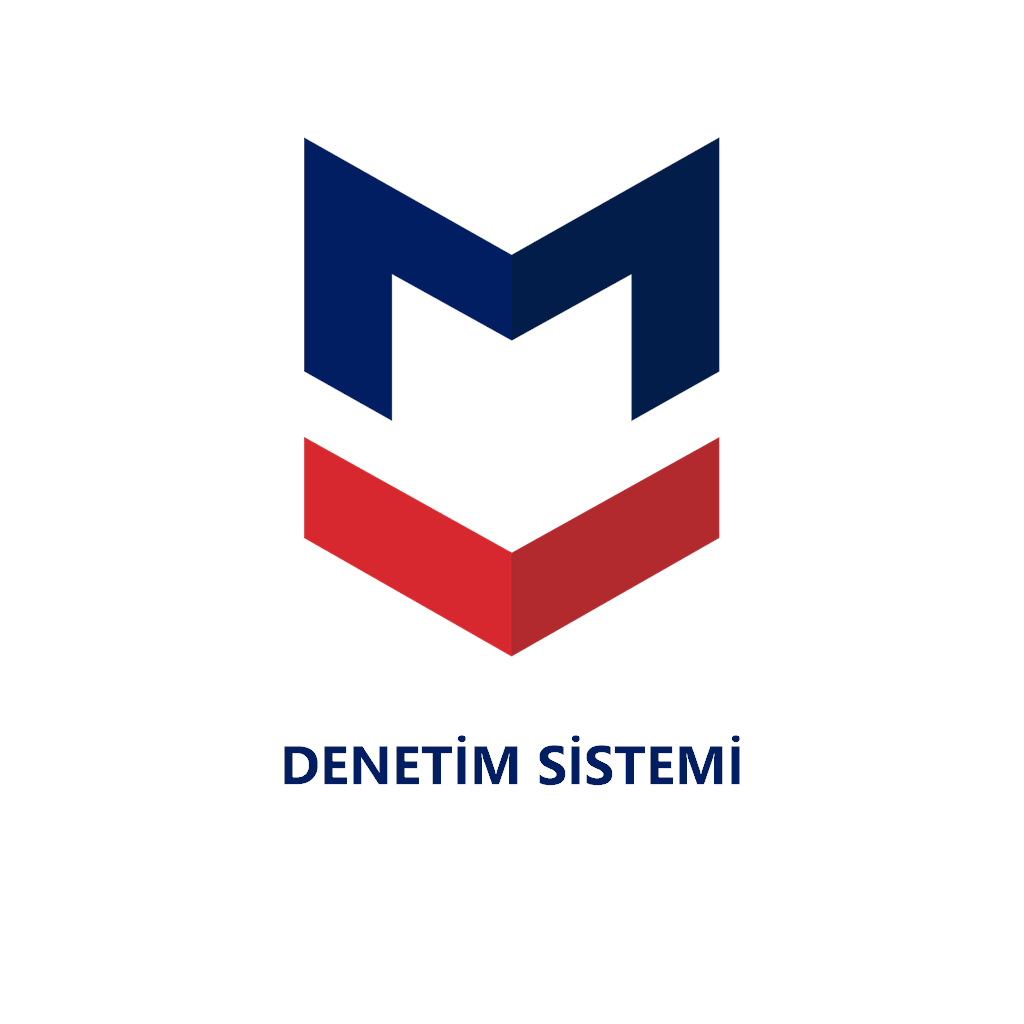
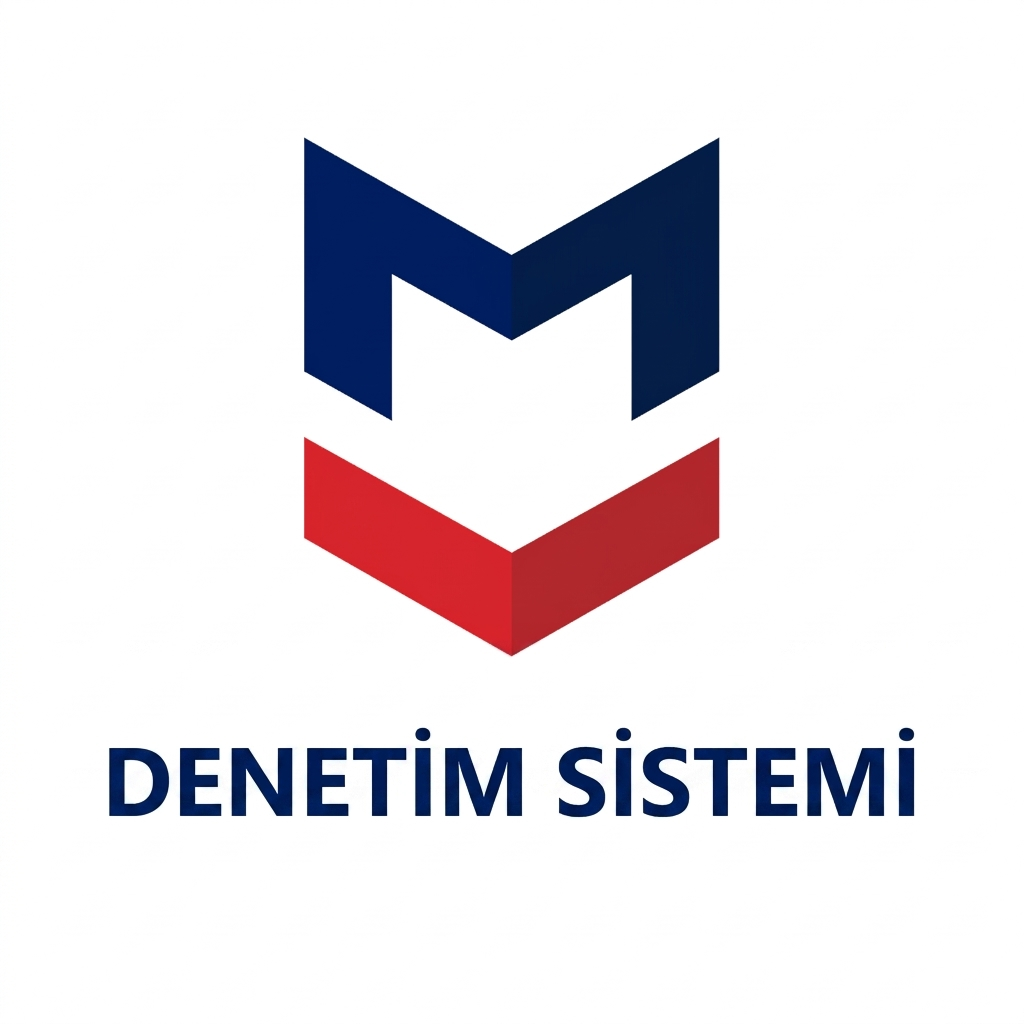
v1.0.8: Uygulama ikonu yazısı büyütüldü, update config düzeltildi

Changed region(s): [[0.0938, 0.6875, 0.9062, 0.8125]]

diff --git a/lib/config/update_config.dart b/lib/config/update_config.dart
@@ -9,7 +9,7 @@ class UpdateConfig {
 
   // GitHub Release içerisindeki indirilecek APK dosyasının adı
   // (flutter build apk --release --split-per-abi komutuyla üretilen en yaygın APK dosyasının adı)
-  static const String apkFileName = 'app-arm64-v8a-release.apk';
+  static const String apkFileName = 'app-release.apk';
 
   // API Adresi
   static String get latestReleaseUrl =>
